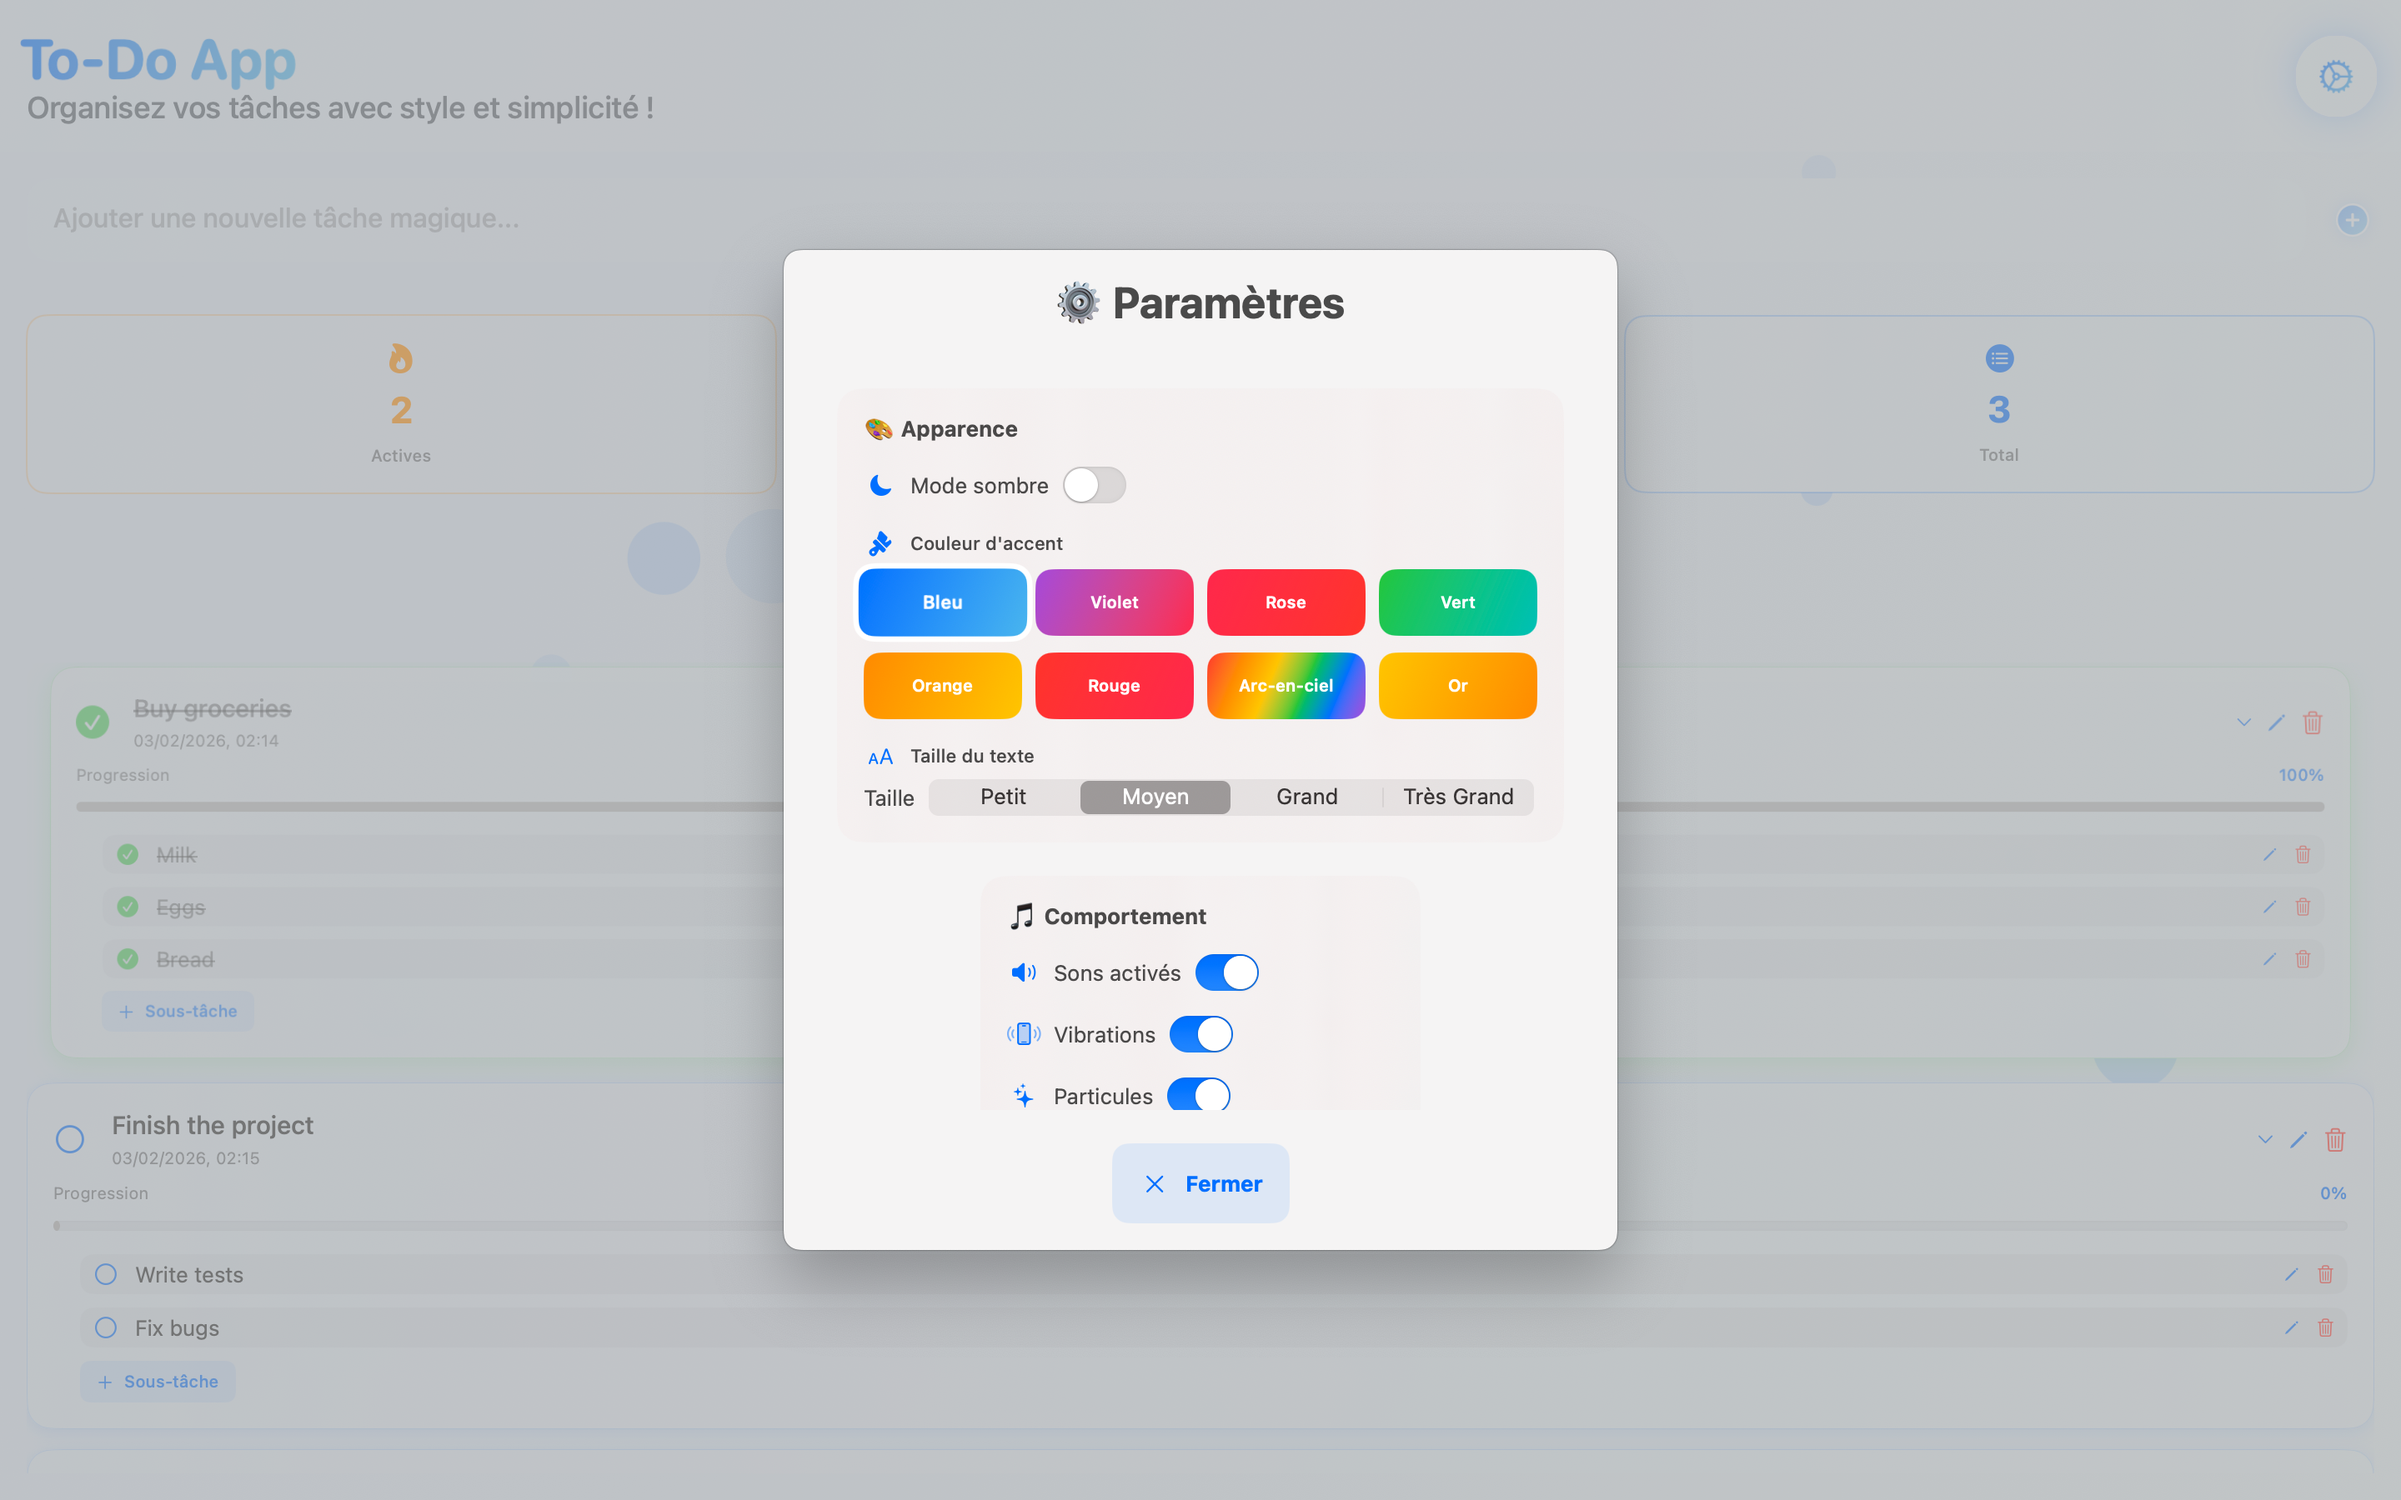
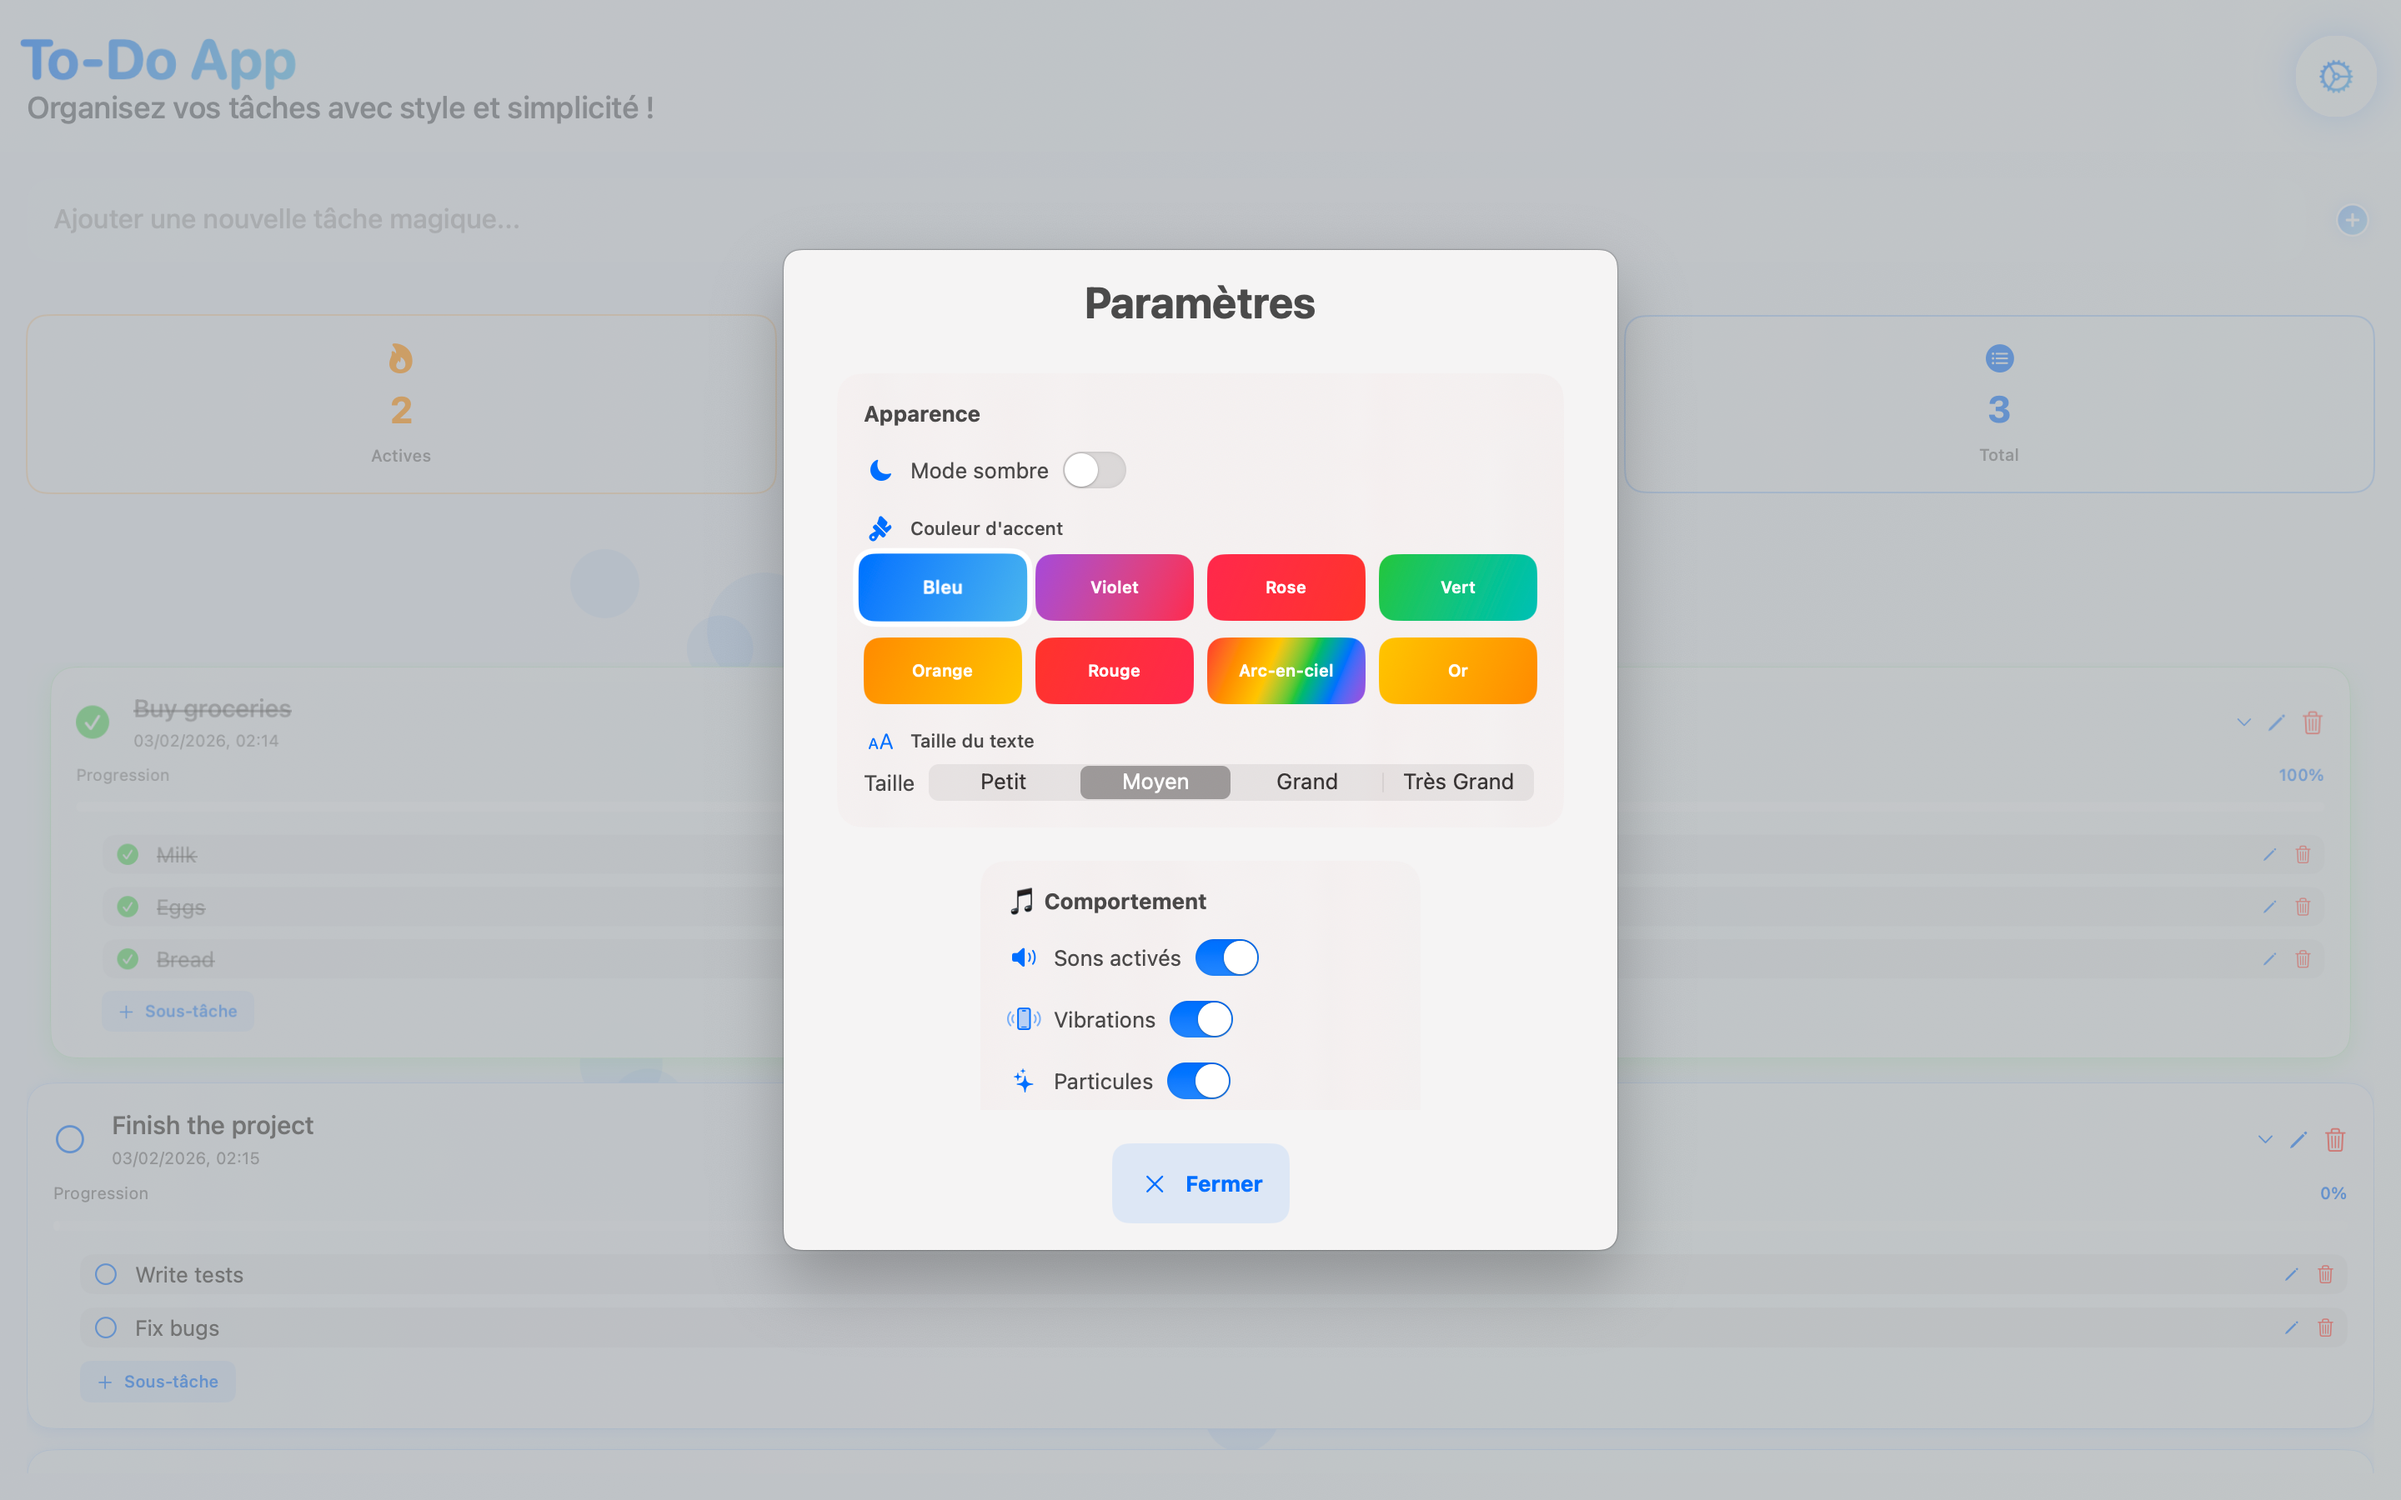
add some screenshot

Changed region(s): [[0.3438, 0.2489, 0.6562, 0.56], [0.4062, 0.5911, 0.5312, 0.7467], [0.4375, 0.1867, 0.5625, 0.2178]]

diff --git a/TodoApp/TodoApp/SettingsView.swift b/TodoApp/TodoApp/SettingsView.swift
@@ -22,7 +22,7 @@ struct SettingsView: View {
     }
     
     private var headerSection: some View {
-        Text("⚙ Paramètres")
+        Text("Paramètres")
             .font(.largeTitle)
             .fontWeight(.bold)
     }
@@ -67,7 +67,7 @@ struct SettingsView: View {
     
     private var appearanceCard: some View {
         VStack(alignment: .leading, spacing: 15) {
-            Text("🎨 Apparence")
+            Text("Apparence")
                 .font(.headline)
             
             darkModeToggle
